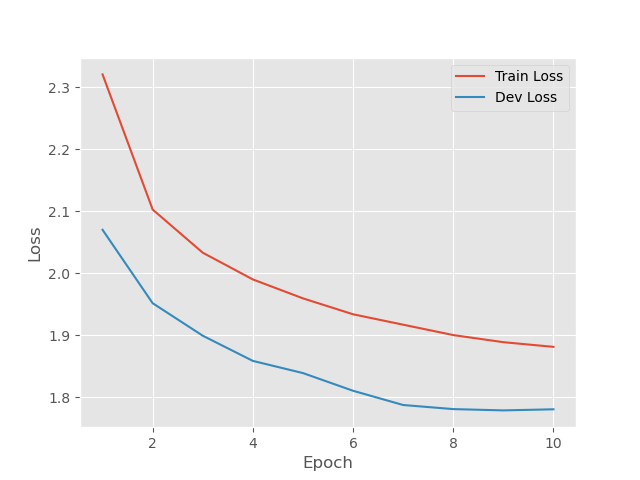
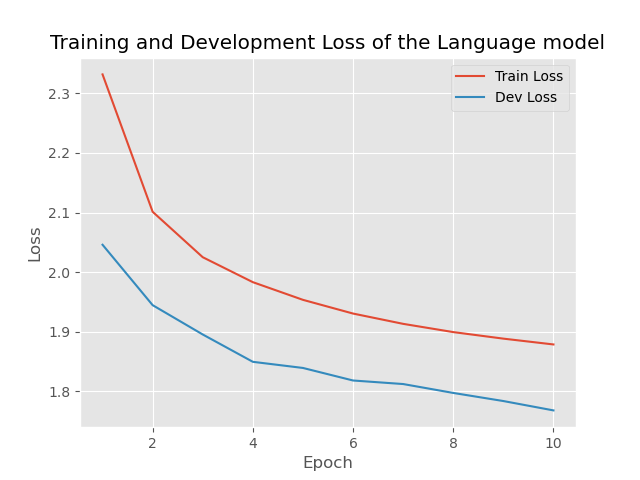
added title for language model plot

diff --git a/models.py b/models.py
@@ -567,6 +567,7 @@ def train_lm(args, train_text, dev_text, vocab_index):
     plt.plot(epoch_array, dev_loss_ar, label='Dev Loss')
     plt.xlabel('Epoch')
     plt.ylabel('Loss')
+    plt.title('Training and Development Loss of the Language model')
     plt.legend()
     plt.savefig('language_model_loss.png')
 
